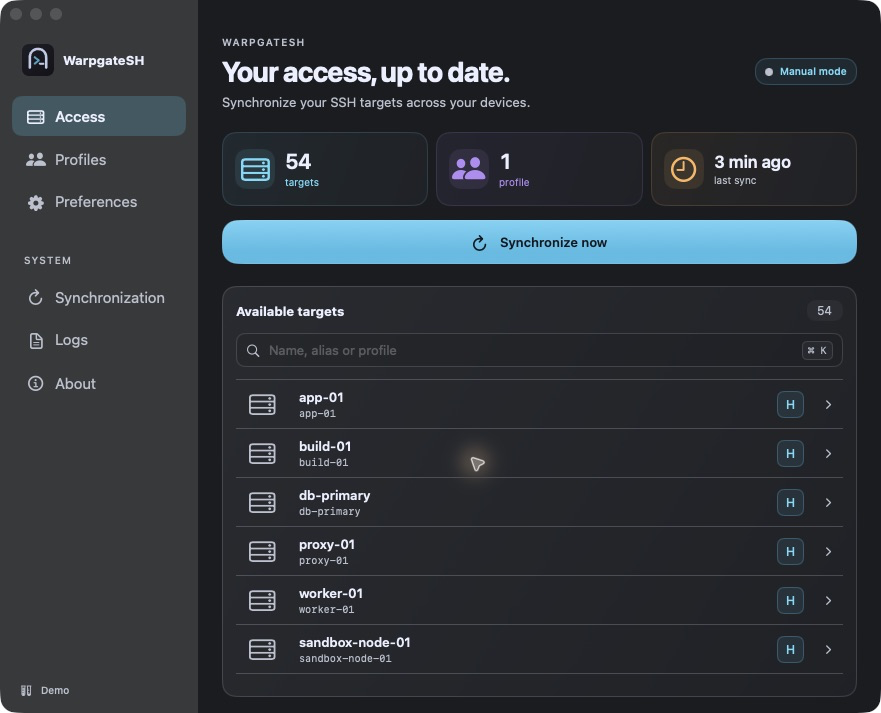
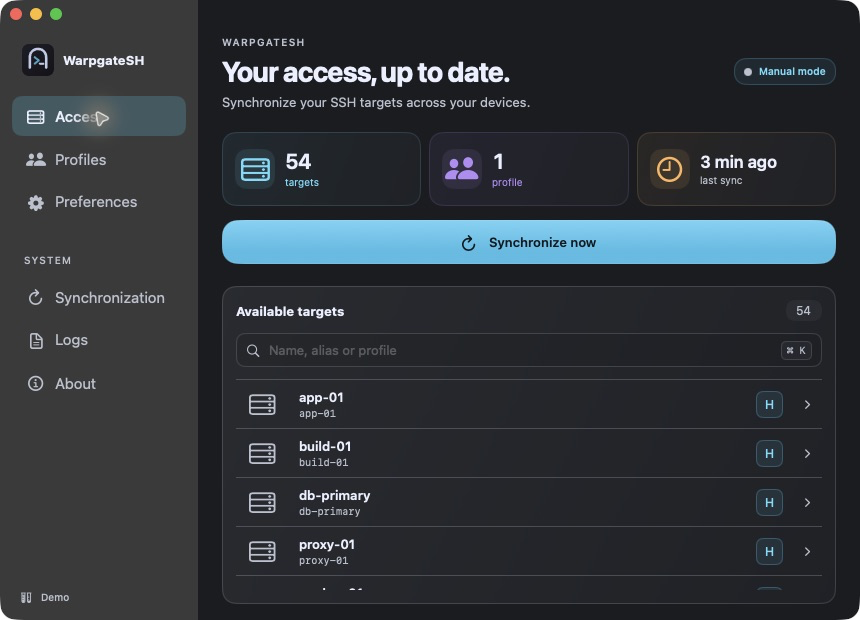
docs: refresh native companion screenshots and release validation

diff --git a/apps/warpgatesh-site/public/index.html b/apps/warpgatesh-site/public/index.html
@@ -177,15 +177,15 @@
           <p class="fine">
             Close the window. The background agent keeps working.
           </p>
-          <p class="preview-note">The native SwiftUI companion is included in v0.1.18 and later. Version 0.1.24 fixes menu-bar registration on a new Mac and identifies both background login items as WarpgateSH. First launch explains background synchronization and offers manual mode.</p>
+          <p class="preview-note">The native SwiftUI companion is included in v0.1.18 and later. Version 0.1.25 removes Tauri and uses native Sparkle updates, retaining compatibility with 0.1.24 and the existing menu-bar and background-agent behavior. First launch explains background synchronization and offers manual mode.</p>
           <a class="inline-link" href="docs/desktop-app.html">Explore the native companion <span aria-hidden="true">→</span></a>
         </div>
         <figure class="companion-figure">
           <a class="screenshot-link" href="assets/swiftui/access.png" aria-label="View the full SwiftUI Access screenshot">
-            <img class="app-screenshot" src="assets/swiftui/access.png" width="881" height="713" loading="lazy" alt="Running WarpgateSH SwiftUI app with sidebar, synchronization cards, search and fictional SSH targets" />
+            <img class="app-screenshot" src="assets/swiftui/access.png" width="860" height="620" loading="lazy" alt="Running WarpgateSH SwiftUI app with sidebar, synchronization cards, search and fictional SSH targets" />
           </a>
           <figcaption class="fine">
-            WarpgateSH v0.1.23 · Running app, fictional demo data.<br />
+            WarpgateSH v0.1.25 · Running app, fictional demo data.<br />
             Native SwiftUI interface for macOS 13 and later.
           </figcaption>
         </figure>
@@ -196,35 +196,35 @@
         <p class="screenshot-intro">Actual captures from the running macOS app in demo mode. All data is fictional; the interface supports English and French. Select an image to view it at full size.</p>
         <div class="screenshot-grid">
           <figure>
-            <a class="screenshot-link" href="assets/swiftui/profiles.png" aria-label="View the full Profiles screenshot"><img class="app-screenshot" src="assets/swiftui/profiles.png" width="881" height="713" loading="lazy" alt="WarpgateSH SwiftUI Profiles screen, captured in demo mode with fictional data" /></a>
+            <a class="screenshot-link" href="assets/swiftui/profiles.png" aria-label="View the full Profiles screenshot"><img class="app-screenshot" src="assets/swiftui/profiles.png" width="860" height="620" loading="lazy" alt="WarpgateSH SwiftUI Profiles screen, captured in demo mode with fictional data" /></a>
             <figcaption><h3>Profiles</h3><p>Enroll a profile, verify SSH fingerprints and manage personal access.</p></figcaption>
           </figure>
           <figure>
-            <a class="screenshot-link" href="assets/swiftui/preferences.png" aria-label="View the full Preferences screenshot"><img class="app-screenshot" src="assets/swiftui/preferences.png" width="881" height="713" loading="lazy" alt="WarpgateSH SwiftUI Preferences screen, captured in demo mode with fictional data" /></a>
+            <a class="screenshot-link" href="assets/swiftui/preferences.png" aria-label="View the full Preferences screenshot"><img class="app-screenshot" src="assets/swiftui/preferences.png" width="860" height="620" loading="lazy" alt="WarpgateSH SwiftUI Preferences screen, captured in demo mode with fictional data" /></a>
             <figcaption><h3>Preferences</h3><p>Choose your language, appearance and desktop notifications.</p></figcaption>
           </figure>
           <figure>
-            <a class="screenshot-link" href="assets/swiftui/synchronization.png" aria-label="View the full Synchronization screenshot"><img class="app-screenshot" src="assets/swiftui/synchronization.png" width="881" height="713" loading="lazy" alt="WarpgateSH SwiftUI Synchronization screen, captured in demo mode with fictional data" /></a>
+            <a class="screenshot-link" href="assets/swiftui/synchronization.png" aria-label="View the full Synchronization screenshot"><img class="app-screenshot" src="assets/swiftui/synchronization.png" width="860" height="620" loading="lazy" alt="WarpgateSH SwiftUI Synchronization screen, captured in demo mode with fictional data" /></a>
             <figcaption><h3>Synchronization</h3><p>Inspect the agent, the last snapshot and synchronization alerts.</p></figcaption>
           </figure>
           <figure>
-            <a class="screenshot-link" href="assets/swiftui/logs.png" aria-label="View the full Logs and diagnostics screenshot"><img class="app-screenshot" src="assets/swiftui/logs.png" width="881" height="713" loading="lazy" alt="WarpgateSH SwiftUI Logs and diagnostics screen, captured in demo mode with fictional data" /></a>
+            <a class="screenshot-link" href="assets/swiftui/logs.png" aria-label="View the full Logs and diagnostics screenshot"><img class="app-screenshot" src="assets/swiftui/logs.png" width="860" height="620" loading="lazy" alt="WarpgateSH SwiftUI Logs and diagnostics screen, captured in demo mode with fictional data" /></a>
             <figcaption><h3>Logs and diagnostics</h3><p>Review local files before exporting sanitized diagnostics.</p></figcaption>
           </figure>
           <figure>
-            <a class="screenshot-link" href="assets/swiftui/about.png" aria-label="View the full About and updates screenshot"><img class="app-screenshot" src="assets/swiftui/about.png" width="881" height="713" loading="lazy" alt="WarpgateSH SwiftUI About and updates screen, captured in demo mode with fictional data" /></a>
+            <a class="screenshot-link" href="assets/swiftui/about.png" aria-label="View the full About and updates screenshot"><img class="app-screenshot" src="assets/swiftui/about.png" width="860" height="620" loading="lazy" alt="WarpgateSH SwiftUI About and updates screen, captured in demo mode with fictional data" /></a>
             <figcaption><h3>About and updates</h3><p>Check versions and apply signed updates after confirmation.</p></figcaption>
           </figure>
           <figure>
-            <a class="screenshot-link" href="assets/swiftui/preferences-manual.png" aria-label="View background synchronization preferences in manual mode"><img class="app-screenshot" src="assets/swiftui/preferences-manual.png" width="881" height="713" loading="lazy" alt="WarpgateSH v0.1.23 manual mode preferences, real native app in isolated demo mode" /></a>
+            <a class="screenshot-link" href="assets/swiftui/preferences-manual.png" aria-label="View background synchronization preferences in manual mode"><img class="app-screenshot" src="assets/swiftui/preferences-manual.png" width="860" height="620" loading="lazy" alt="WarpgateSH v0.1.25 manual mode preferences, real native app in isolated demo mode" /></a>
             <figcaption><h3>Your choice at first launch</h3><p>Enable the background agent or stay in manual mode. Existing agents skip the prompt.</p></figcaption>
           </figure>
           <figure>
-            <a class="screenshot-link" href="assets/swiftui/preferences-light.png" aria-label="View the light appearance"><img class="app-screenshot" src="assets/swiftui/preferences-light.png" width="881" height="713" loading="lazy" alt="Light appearance of WarpgateSH v0.1.23, real app in demo mode" /></a>
+            <a class="screenshot-link" href="assets/swiftui/preferences-light.png" aria-label="View the light appearance"><img class="app-screenshot" src="assets/swiftui/preferences-light.png" width="860" height="620" loading="lazy" alt="Light appearance of WarpgateSH v0.1.25, real app in demo mode" /></a>
             <figcaption><h3>Light appearance</h3><p>Choose a theme or follow the appearance of macOS.</p></figcaption>
           </figure>
           <figure>
-            <a class="screenshot-link" href="assets/swiftui/preferences-black.png" aria-label="View the black appearance"><img class="app-screenshot" src="assets/swiftui/preferences-black.png" width="881" height="713" loading="lazy" alt="Black appearance of WarpgateSH v0.1.23, real app in demo mode" /></a>
+            <a class="screenshot-link" href="assets/swiftui/preferences-black.png" aria-label="View the black appearance"><img class="app-screenshot" src="assets/swiftui/preferences-black.png" width="860" height="620" loading="lazy" alt="Black appearance of WarpgateSH v0.1.25, real app in demo mode" /></a>
             <figcaption><h3>Black appearance</h3><p>Choose a theme or follow the appearance of macOS.</p></figcaption>
           </figure>
         </div>

diff --git a/crates/warpgatesh-update-sign/src/main.rs b/crates/warpgatesh-update-sign/src/main.rs
@@ -12,9 +12,25 @@ fn sign() -> Result<(), Box<dyn std::error::Error>> {
     std::fs::write(format!("{path}.sig"), encoded)?;
     Ok(())
 }
+fn verify() -> Result<(), Box<dyn std::error::Error>> {
+    let args: Vec<String> = std::env::args().collect();
+    let archive = std::fs::read(args.get(2).ok_or("Expected archive")?)?;
+    let signature = std::fs::read_to_string(args.get(3).ok_or("Expected signature")?)?;
+    let public = std::fs::read_to_string(args.get(4).ok_or("Expected public key")?)?;
+    let decoded = base64::engine::general_purpose::STANDARD.decode(signature.trim())?;
+    let signature = minisign_verify::Signature::decode(std::str::from_utf8(&decoded)?)?;
+    minisign_verify::PublicKey::decode(&public)?.verify(&archive, &signature, false)?;
+    println!("Legacy 0.1.24 signature verified");
+    Ok(())
+}
 fn main() {
-    if sign().is_err() {
-        eprintln!("Unable to sign the update archive; verify release inputs.");
+    let result = if std::env::args().nth(1).as_deref() == Some("--verify") {
+        verify()
+    } else {
+        sign()
+    };
+    if result.is_err() {
+        eprintln!("Unable to sign or verify the update archive; verify release inputs.");
         std::process::exit(1);
     }
 }

diff --git a/apps/warpgatesh-macos/scripts/release.py b/apps/warpgatesh-macos/scripts/release.py
@@ -25,5 +25,6 @@ run(['hdiutil','verify',image]);run([sys.executable,scripts/'verify-bundle.py',a
 with tempfile.TemporaryDirectory(prefix='warpgatesh-updater-check-') as directory:
  run(['tar','-xzf',out/'WarpgateSH.app.tar.gz','-C',directory]);extracted=pathlib.Path(directory)/'WarpgateSH.app'
  run([sys.executable,scripts/'verify-bundle.py',extracted]);run(['xcrun','stapler','validate',extracted],retry=True)
+run(['cargo','run','--locked','--package','warpgatesh-update-sign','--','--verify',out/'WarpgateSH.app.tar.gz',out/'WarpgateSH.app.tar.gz.sig',root/'apps/warpgatesh-macos/Bundle/updater.pub'])
 pathlib.Path(str(image)+'.sha256').write_text(hashlib.sha256(image.read_bytes()).hexdigest()+'  '+image.name+'\n')
 print('Signed, notarized distribution is ready for draft publication.')

diff --git a/docs/tauri-removal-plan.md b/docs/tauri-removal-plan.md
@@ -6,6 +6,7 @@
 > historiques qui prévoyaient un installeur Rust sont remplacées par l’ADR 0038.
 > Aucun installeur privilégié ou mécanisme de bascule maison n’est livré.
 > Suivi : [issue #15](https://github.com/M0okz/warpgatesh/issues/15).
+> Preuves : [validation 0.1.25](validation/0.1.25-native-migration.md).
 
 
 Date : 1 novembre 2026. Statut : plan prêt pour une exécution ultérieure.
@@ -135,16 +136,16 @@ de ces moyens se vérifie avant d’engager les étapes qui en dépendent.
 
 ### Étape 1 Figer la référence et les preuves
 
-- [ ] Vérifier Git, les instructions locales, les versions disponibles et les
+- [x] Vérifier Git, les instructions locales, les versions disponibles et les
   travaux non liés ; créer une branche `codex/` et l’issue GitHub d’architecture.
   Relier l’issue à cette note et au suivi Vikunja.
-- [ ] Conserver la distribution officielle 0.1.24 comme référence réinstallable.
+- [x] Conserver la distribution officielle 0.1.24 comme référence réinstallable.
   Utiliser un compte macOS ou des fixtures jetables pour les parcours destructifs.
 - [ ] Relever sur la même machine et avec les mêmes données de démo la taille
   du bundle/DMG, le lancement jusqu’à la fenêtre et à l’icône, la mémoire et le
   CPU au repos des processus UI/backend, et la durée d’un build propre puis
   incrémental. Faire plusieurs mesures et conserver médiane et dispersion.
-- [ ] Ajouter l’ADR de remplacement et une matrice fonctionnelle avant/après.
+- [x] Ajouter l’ADR de remplacement et une matrice fonctionnelle avant/après.
   Les gains de taille et de performance seront mesurés, sans pourcentage promis.
 
 ### Étape 2 Extraire le backend et verrouiller le protocole
@@ -187,48 +188,26 @@ de ces moyens se vérifie avant d’engager les étapes qui en dépendent.
 
 ### Étape 4 Remplacer complètement les mises à jour Tauri
 
-- [ ] Garder le flux public `releases/latest/download/latest.json`, ses champs
-  `version`, `notes`, `pub_date`, `platforms`, `url`, `signature`, et les deux
-  cibles `darwin-aarch64`/`darwin-x86_64`. Garder les noms
-  `WarpgateSH.app.tar.gz` et `.sig`, la clé publique et le couple de clés
-  existants. La compatibilité du format ne nécessite pas la bibliothèque Tauri.
-- [ ] Créer un outil Rust de signature de distribution autonome, fondé sur
-  Minisign et épinglé dans le build. Vérifier le format de clé chiffrée, de
-  signature et leur encodage avec le vérificateur de la 0.1.24. Les noms actuels
-  des secrets CI peuvent servir d’alias de compatibilité ; aucune clé n’est
-  régénérée ou exportée dans les logs pour cette migration.
-- [ ] Préserver SemVer, le cache de contrôle de six heures, la vérification
-  manuelle forcée, les notes et les états/progressions déjà consommés par Swift.
-  Une notification ou un contrôle de version ne déclenche pas une installation.
-  Le canal Homebrew reste géré par Homebrew et une app sur DMG reste non éligible.
-- [ ] Télécharger par HTTPS, sans identifiants Warpgate, avec délais et bornes
-  de taille. Vérifier la signature Minisign avant toute extraction. Rejeter
-  manifeste incohérent, cible incompatible, archive tronquée, signature absente
-  ou erronée et version plus ancienne ou déjà installée.
-- [ ] Extraire en privé avec limites de taille décompressée/nombre de fichiers.
-  Refuser traversées de chemin, chemins absolus, liens qui sortent du bundle,
-  fichiers spéciaux et contenu inattendu. Valider version, bundle ID,
-  `CFBundleExecutable`, architectures, signature Apple et Team ID attendus.
-  Les contrôles côté client utilisent les API/outils livrés avec macOS ;
-  ils n’exigent pas Xcode, Nix ou Node sur le poste utilisateur.
-- [ ] Implémenter une transaction de remplacement testable : verrou exclusif,
-  staging sur le volume de destination, état de reprise durable, ancienne app
-  conservée jusqu’au succès, gestion de l’espace et des permissions, relance
-  d’un helper vérifié hors du bundle remplacé. Celui-ci attend la sortie
-  effective des anciens processus et remplace l’application complète, pas
-  seulement l’exécutable SwiftUI.
-- [ ] Interrompre l’agent uniquement pour la bascule finale et seulement s’il
-  était actif ; le redémarrer depuis le nouveau bundle. Préserver le mode
-  manuel. Programmer la réouverture après remplacement sans prendre un PID
-  Launch Services invalide ou un ancien processus pour la nouvelle instance.
-- [ ] Tester échecs et interruptions à chaque étape, y compris permissions
-  refusées, réseau coupé, manque d’espace, remplacement partiel et relance en
-  échec. Couvrir les chemins avec espaces, apostrophes et métacaractères ;
-  transmettre les arguments littéralement, sans les interpoler en code shell.
-  Avant la validation du nouveau lancement, restaurer l’ancienne app
-  et l’état précédent de l’agent, ou exposer une reprise explicite sans perdre
-  les données. Après validation, supprimer uniquement les temporaires et la
-  copie de retour arrière créés par l’opération.
+**Ajustement approuvé pendant l’exécution : Sparkle natif remplace les tâches
+initialement prévues pour un installeur Rust maison (ADR 0038).**
+
+- [x] Conserver `latest.json`, les deux cibles Darwin, `WarpgateSH.app.tar.gz`,
+  sa signature Minisign et la clé historique pour les clients 0.1.24.
+- [x] Outil de signature Rust autonome ; vérification de la signature réelle
+  avec le vérificateur Minisign 0.2.5 utilisé par les anciens clients.
+- [x] Sparkle 2.10.1 épinglé, framework et services natifs embarqués/signés ;
+  appcast et archive signés EdDSA avec une clé séparée conservée dans le coffre.
+- [x] Vérification d’information toutes les six heures, contrôle manuel,
+  installation confirmée dans Sparkle, aucun téléchargement automatique,
+  aucun profilage système et aucune transmission d’identifiants Warpgate.
+- [x] Sparkle possède extraction, vérification, permissions et relance.
+  Le nouveau backend redémarre un agent actif d’une autre version, sans créer
+  de service absent ni réactiver le choix de synchronisation manuelle.
+- [x] Parcours natif signé 0.1.25 → 0.1.26 exécuté dans une fixture privée de
+  démonstration ; archive altérée refusée, version précédente conservée.
+- [ ] Parcours public officiel 0.1.24 → 0.1.25 après publication des artefacts.
+- [ ] Validation sur l’autre Mac de Gregory après sa mise à jour. L’architecture
+  et le macOS de ce poste ne sont pas présumés.
 
 ### Étape 5 Verrouiller la compatibilité de la première mise à niveau
 

diff --git a/docs/validation/0.1.25-native-migration.md b/docs/validation/0.1.25-native-migration.md
@@ -1,0 +1,57 @@
+# Native companion migration — 0.1.25
+
+Validation performed on 1 November 2026. The baseline is signed v0.1.24; the
+native architecture and Sparkle integration were reviewed at `f96481ae83f2fd0528f6347e7dbafce3dea3da78`.
+This report distinguishes local fixtures, public artifacts and hardware coverage.
+
+## Standards
+
+The independent Standards review found no remaining actionable finding. The
+custom-installer recovery findings were superseded by removing that installer.
+The Nix bundle-check finding was fixed: packaging runs the bundle verifier and
+DMG integrity check. Agent-owned writes, SSH isolation, Keychain namespaces,
+explicit update consent and bundle identity remain intact.
+
+## Spec
+
+The independent Spec review found no remaining actionable finding in the pinned
+implementation. Sparkle replaces the custom transaction/helper path, in line
+with the user-approved ADR 0038. Legacy archive/manifest compatibility, separate
+EdDSA signing, demo isolation and active-agent version restart were inspected.
+This code review alone does not establish release delivery or Intel testing.
+
+## Executed checks
+
+- Nix workspace Rust tests, formatting and Clippy; Swift formatting and 19 tests.
+- Native private-pipe contract: state schema, correlated failures, mandatory SSH
+  approval, absence of fixture secrets in errors and clean EOF.
+- Universal native app and DMG; four executables have arm64/x86_64 slices and
+  macOS 13 deployment targets, with no Nix-store runtime references.
+- A Developer ID signed private DEBUG fixture updated from 0.1.25 to 0.1.26 using
+  Sparkle 2.10.1, a signed appcast and signed archive served only on localhost.
+  The app was replaced and relaunched into isolated demo data. No real backend,
+  profile, SSH configuration, token or LaunchAgent was changed by this fixture.
+- An archive altered after signing was rejected by Sparkle before installation.
+  The private app remained at 0.1.26 with its code signature valid. Dismissing the
+  error returned the UI to an actionable state.
+- Closing the updated fixture's window left it in menu-bar application mode;
+  reopening restored foreground mode.
+- Local release app and DMG signed with Developer ID, notarized and stapled;
+  the extracted updater app also passed bundle and stapler validation.
+- The actual release archive's Minisign signature was verified with the
+  `minisign-verify 0.2.5` implementation used by the old updater.
+- All fifteen documentation captures were refreshed in English from the running
+  0.1.25 SwiftUI app with fictional demo data. Dimensions and hashes are recorded
+  in `docs/assets/swiftui/manifest.json`.
+
+## Limits and delivery tracking
+
+The local machine is Apple Silicon. Universal slices and deployment metadata
+are checked; this is not an execution test on Intel or macOS 13. Gregory has
+another Mac for the public update test; its CPU and OS have not been established.
+A real instance/SSO flow is not replayed destructively for this architecture
+change; existing Rust API-contract and token-lifecycle tests remain in the suite.
+
+The official 0.1.24-to-0.1.25 public update, final GitHub CI, Homebrew and deployed
+website checks are recorded below as they complete. No unpublished artifact is
+presented as a delivered release.

diff --git a/docs/desktop-app.md b/docs/desktop-app.md
@@ -7,7 +7,7 @@ the synchronization agent and OpenSSH access work independently of its window.
 **Availability:** the native interface is available in **v0.1.18 and later**.
 The screenshots are actual captures of the running SwiftUI application in its
 isolated demo mode. Every profile, target, counter and diagnostic entry shown
-is fictional. The refreshed v0.1.23 captures use English labels; the three unchanged profile/sign-in/token sheets retain their v0.1.22 captures, identified in the asset manifest. From v0.1.20 the
+is fictional. All fifteen screenshots were refreshed from v0.1.25 on 1 November 2026, with English labels; dimensions and hashes are recorded in the asset manifest. From v0.1.20 the
 interface supports French, English and automatic language selection.
 
 ## First launch (v0.1.23 and later)
@@ -23,6 +23,17 @@ agent skips this first-launch window, including on upgrades.
 ![Manual synchronization preferences with an enable button, after choosing Later](assets/swiftui/preferences-manual.png)
 
 ![Access remains available in manual mode without a background agent](assets/swiftui/manual-mode.png)
+
+## Native updates (v0.1.25)
+
+The companion is built with SwiftUI/AppKit and a standalone Rust backend.
+Sparkle handles signed native updates, installation authorization and relaunch.
+Checks run every six hours while the companion is running; downloading and
+installing require your action. Automatic downloads and system profiling are off.
+The same notarized universal archive remains compatible with the 0.1.24 updater.
+Profiles, tokens in Keychain, SSH aliases and your background-agent choice stay
+in place. A background agent already running from an older version is restarted
+from the new bundle when the companion opens.
 
 ## Access
 
@@ -44,7 +55,7 @@ inside an ephemeral sign-in window; the instance still controls SSO and MFA.
 Use **Check profile**, compare the SSH host-key fingerprints with a trusted
 source, approve them, then **Save**. Only saving creates and stores the token.
 
-![Profile enrollment and SSH approval in demo mode](assets/swiftui/profile-add.png)
+![Profile enrollment form in demo mode](assets/swiftui/profile-add.png)
 
 The demo sign-in screen below simulates authentication only. Connected mode
 loads your instance's official page. Providers that reject embedded sign-in can

diff --git a/docs/README.md b/docs/README.md
@@ -29,3 +29,5 @@ reference. These guides provide the complete public onboarding path.
 WarpgateSH is an unofficial community project. Use the official
 [Warpgate documentation](https://warpgate.null.page/) for server installation,
 administration, and access-control configuration.
+
+- [Native migration validation (0.1.25)](validation/0.1.25-native-migration.md)
